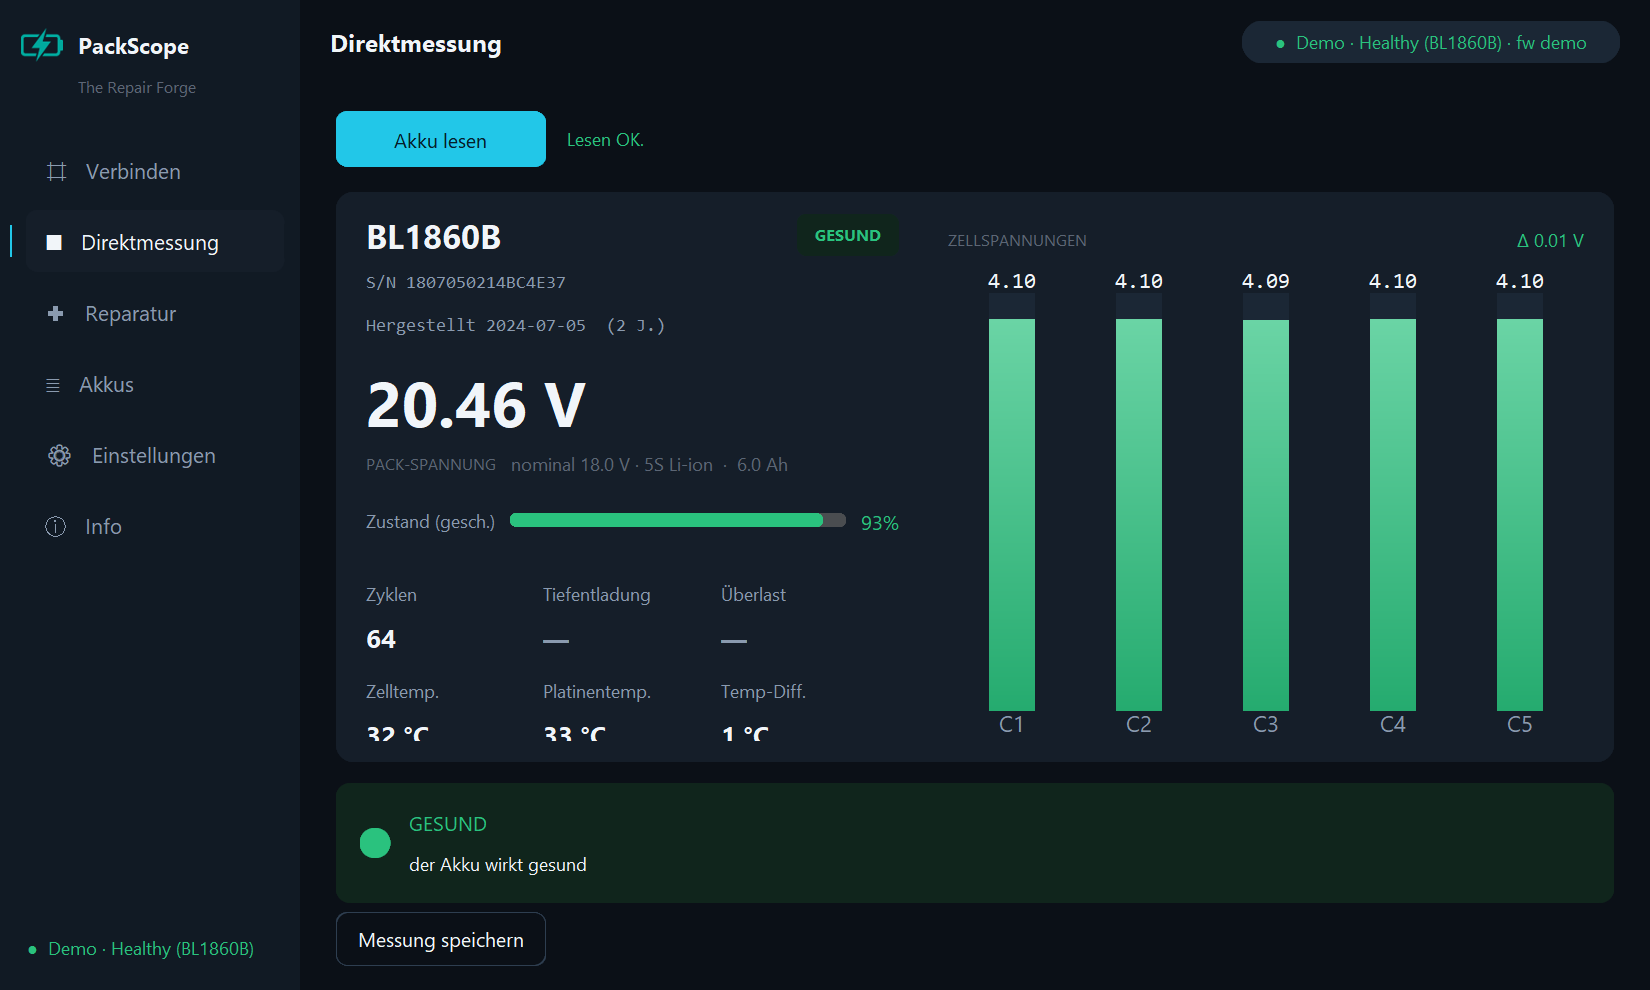
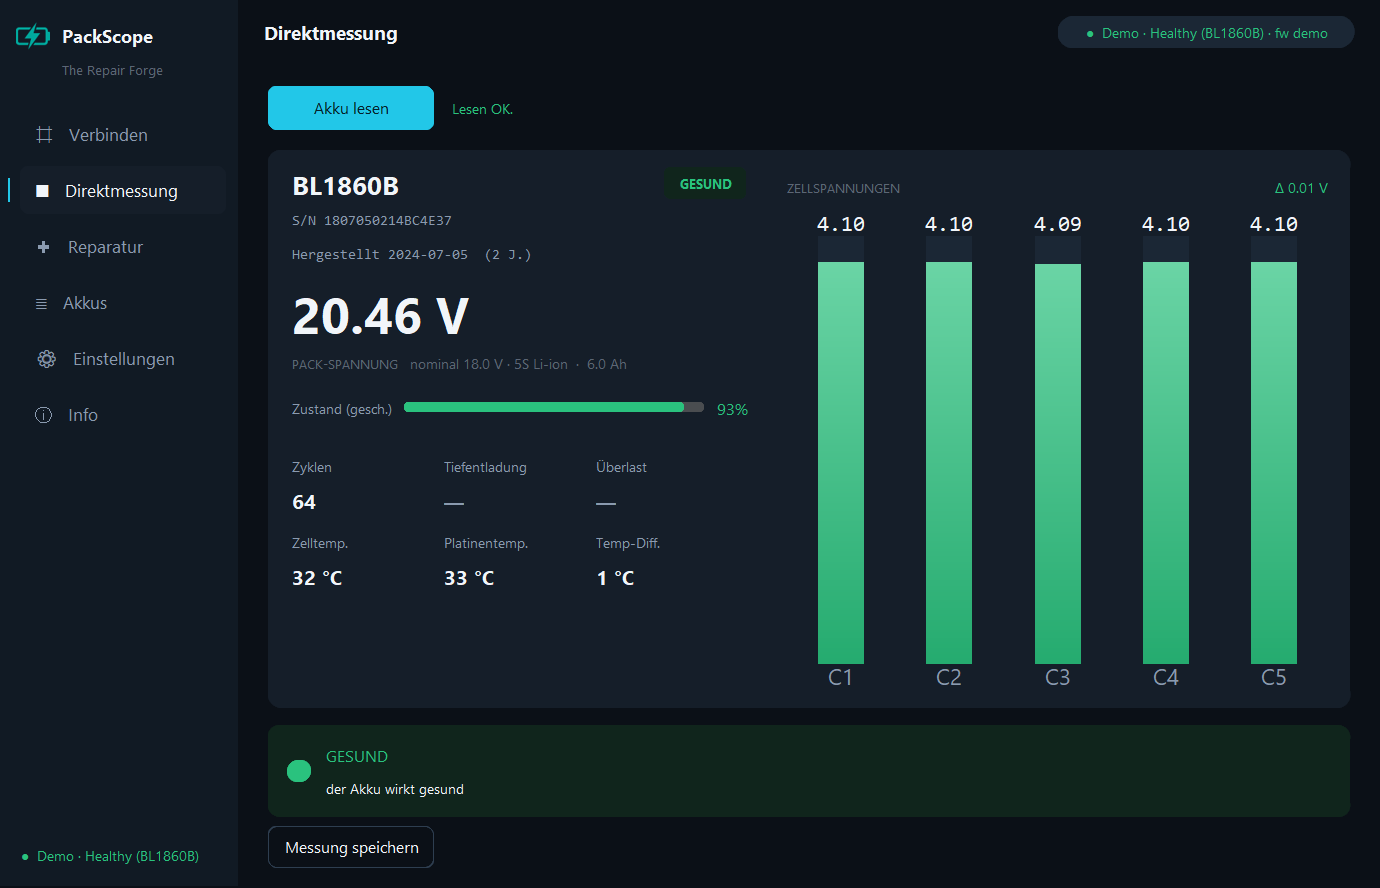
PackScope page: what it does, shown (live read, pack file, health card, repair wizard, languages); screens from 1.0.4

diff --git a/content/packscope.html b/content/packscope.html
@@ -1,42 +1,123 @@
 ---
 title: "PackScope: Makita battery software for your PC"
 title_suffix: true
-description: "PackScope reads Makita LXT batteries through a PocketOBI, keeps a history of every battery, exports CSV and gives the same verdict. Free for personal use."
+description: "PackScope reads Makita LXT batteries through a PocketOBI, keeps a file on every pack, prints a health card for your customer and exports CSV. English, French, German, Spanish. Free for personal use."
 og_image: /assets/img/og-packscope.jpg
 path: "packscope/"
 nav: packscope
-jsonld: "{\"@context\": \"https://schema.org\", \"@type\": \"SoftwareApplication\", \"name\": \"PackScope\", \"applicationCategory\": \"UtilitiesApplication\", \"operatingSystem\": \"Windows, macOS, Linux\", \"url\": \"https://therepairforge.github.io/packscope/\", \"downloadUrl\": \"https://github.com/TheRepairforge/PackScope/releases/latest\", \"license\": \"https://polyformproject.org/licenses/noncommercial/1.0.0/\", \"offers\": {\"@type\": \"Offer\", \"price\": \"0\", \"priceCurrency\": \"EUR\"}, \"author\": {\"@type\": \"Organization\", \"name\": \"The Repair Forge\", \"url\": \"https://therepairforge.github.io/\"}}"
+jsonld: "{\"@context\": \"https://schema.org\", \"@type\": \"SoftwareApplication\", \"name\": \"PackScope\", \"applicationCategory\": \"UtilitiesApplication\", \"operatingSystem\": \"Windows, macOS, Linux\", \"inLanguage\": [\"en\", \"fr\", \"de\", \"es\"], \"url\": \"https://therepairforge.github.io/packscope/\", \"downloadUrl\": \"https://github.com/TheRepairforge/PackScope/releases/latest\", \"license\": \"https://polyformproject.org/licenses/noncommercial/1.0.0/\", \"offers\": {\"@type\": \"Offer\", \"price\": \"0\", \"priceCurrency\": \"EUR\"}, \"author\": {\"@type\": \"Organization\", \"name\": \"The Repair Forge\", \"url\": \"https://therepairforge.github.io/\"}}"
 ---
   <section class="hero">
     <div class="wrap">
       <div>
         <img class="logo-dark" src="/assets/img/packscope-dark.png" alt="PackScope" width="900" height="158" style="height:44px;width:auto;margin-bottom:28px">
         <img class="logo-light" src="/assets/img/packscope-light.png" alt="PackScope" width="900" height="158" style="height:44px;width:auto;margin-bottom:28px">
-        <h1>Read Makita batteries on your computer, through your PocketOBI.</h1>
-        <p class="lead">Every reading saved, a history per pack, and the same verdict and repair wizard on a bigger screen.</p>
-        <div class="actions">
+        <h1>Your PocketOBI on a big screen, with a memory.</h1>
+        <p class="lead">Read a Makita battery on your computer, keep a file on every pack you have ever tested, and hand your customer a health card instead of a shrug.</p>
+        <div class="actions btn-row">
           <a class="btn btn-primary" href="#download">Download <span class="i i-down" aria-hidden="true"></span></a>
+          <a class="btn btn-plain" href="#demo">Try it without a device</a>
         </div>
+        <p class="note" style="margin-top:22px">Free for personal use · Windows, macOS, Linux · English, Français, Deutsch, Español · nothing leaves your computer</p>
       </div>
-      <figure><img class="photo" src="/assets/img/k1-packscope-desk.jpg" alt="A laptop running PackScope on its Live read page, connected by USB to a PocketOBI clipped onto a Makita LXT battery; both show the same HEALTHY verdict" width="1500" height="1000"><figcaption>PackScope reading a battery through PocketOBI.</figcaption></figure>
+      <figure><img class="photo" src="/assets/img/k1-packscope-desk.jpg" alt="A laptop running PackScope on its Live read page, connected by USB to a PocketOBI clipped onto a Makita LXT battery; both show the same HEALTHY verdict" width="1500" height="1000"><figcaption>PackScope reading a battery through PocketOBI. Both screens give the same verdict.</figcaption></figure>
     </div>
   </section>
 
   <section class="section">
+    <div class="wrap">
+      <h2>Every reading, readable</h2>
+      <div class="split wide-text" style="margin-top:36px;align-items:center">
+        <figure><img class="screen soft" src="/assets/img/screens/ps-live.png" alt="PackScope live read: a healthy BL1860B at 20.46 V, health estimate 93%, 64 cycles, temperatures and five cell bars at 4.10 V" width="1380" height="888" loading="lazy"><figcaption>Live read on a demo battery.</figcaption></figure>
+        <div>
+          <ul class="reads">
+            <li><strong>Five cell bars</strong>, the spread between them, pack voltage, capacity and age.</li>
+            <li><strong>A health estimate</strong>, the cycle count, over-discharge and overload counters, both temperatures.</li>
+            <li><strong>One verdict</strong>, the same word the device shows: the decode and the verdict are ported from the PocketOBI firmware, so the two never disagree.</li>
+          </ul>
+          <p class="muted">One click saves the reading into the pack's file.</p>
+        </div>
+      </div>
+    </div>
+  </section>
+
+  <section class="section">
+    <div class="wrap">
+      <h2>A file on every pack</h2>
+      <div class="split" style="margin-top:36px;align-items:center">
+        <div>
+          <p>Each battery is tracked by its serial number. Read it today, read it again in three months: PackScope puts the two side by side.</p>
+          <ul class="reads">
+            <li><strong>Who and where.</strong> An alias, an owner (yours or a customer's), a status from "to diagnose" to "repaired" or "parts", and your own tags.</li>
+            <li><strong>Verdict over time</strong>, one coloured mark per reading, so a pack that is sliding shows it.</li>
+            <li><strong>Trends</strong> of pack voltage, cell spread, temperature spread and cycles, and a side-by-side compare of any two readings.</li>
+            <li><strong>Repair sessions</strong>, with what was tried and whether the unlock held after a charge.</li>
+          </ul>
+        </div>
+        <figure><img class="screen soft" src="/assets/img/screens/ps-history.png" alt="PackScope Batteries page, one pack's file: BL1840B owned by Client Martin, status Repaired, tag false-lock, two readings, one repair, verdict over time going from amber to green, pack voltage trend" width="674" height="670" loading="lazy" style="max-width:560px"><figcaption>A demo pack: false lockout, unlocked, healthy since.</figcaption></figure>
+      </div>
+    </div>
+  </section>
+
+  <section class="section">
+    <div class="wrap">
+      <h2>A health card for your customer</h2>
+      <div class="split wide-text" style="margin-top:36px;align-items:center">
+        <figure><img class="screen soft" src="/assets/img/screens/ps-health-card.png" alt="Battery Health Report for a BL1840B: verdict HEALTHY, capacity, pack voltage, cycles, temperatures, owner, five cell voltages, verdict over time and a repair history line: unlock, held" width="816" height="805" loading="lazy" style="background:#ECEFF2;max-width:640px"><figcaption>The health card of the same pack, as it prints.</figcaption></figure>
+        <div>
+          <p>One button turns a pack's file into a clean one-page report: the verdict in words, the cells, the counters, the verdict history and every repair with its outcome.</p>
+          <p>It opens in your browser; print it, or save it as a PDF. Useful when a pack goes back to its owner, or when you sell one and want to show what you checked.</p>
+          <p class="note">A diagnostic aid, not a warranty: the card says so.</p>
+        </div>
+      </div>
+    </div>
+  </section>
+
+  <section class="section">
+    <div class="wrap">
+      <h2>The repair wizard, step by step</h2>
+      <div class="split" style="margin-top:36px;align-items:center">
+        <div>
+          <p>Read, Classify, Unlock, Confirm. PackScope reads the pack and tells a false lockout from a real fault before anything is written.</p>
+          <div class="checks" style="margin:24px 0 0">
+            <div><h3>Classify</h3><p>Charger lock, latched fault, thermistor and cells, each checked and shown, then a plain-language observation, likely cause and what to check.</p></div>
+            <div><h3>Unlock</h3><p>Through the PocketOBI, the same write the device makes. When it finds a hardware fault it says so, and tells you to fix that first.</p></div>
+            <div><h3>Confirm</h3><p>Re-read, log the session in the pack's file. Charge it afterwards: a pack with a real fault locks again, and its file shows that too.</p></div>
+          </div>
+        </div>
+        <figure><img class="screen soft" src="/assets/img/screens/ps-repair-check.png" alt="PackScope repair wizard, step Classify: charger lock N34, no latched fault, thermistor and cells OK, false lockout, proceed to unlock" width="1380" height="888" loading="lazy"><figcaption>A demo battery: a false lockout, nothing broken.</figcaption></figure>
+      </div>
+    </div>
+  </section>
+
+  <section class="section">
+    <div class="wrap">
+      <h2>In your language</h2>
+      <p class="lead" style="margin-top:12px">English, Français, Deutsch, Español. Pick one in Settings and the whole app follows, verdicts and repair hints included, with the same words as the device.</p>
+      <div class="screen-pair" style="margin-top:32px">
+        <figure><img class="screen soft" src="/assets/img/screens/ps-live.png" alt="PackScope live read in English" width="1380" height="888" loading="lazy"><figcaption>English</figcaption></figure>
+        <figure><img class="screen soft" src="/assets/img/translate/ps-live-fr.png" alt="PackScope live read in French: Lecture directe, SAINE" width="1380" height="888" loading="lazy"><figcaption>Français</figcaption></figure>
+        <figure><img class="screen soft" src="/assets/img/translate/ps-live-de.png" alt="PackScope live read in German: Direktmessung, GESUND" width="1380" height="888" loading="lazy"><figcaption>Deutsch</figcaption></figure>
+        <figure><img class="screen soft" src="/assets/img/translate/ps-live-es.png" alt="PackScope live read in Spanish: Lectura directa, SANA" width="1380" height="888" loading="lazy"><figcaption>Español</figcaption></figure>
+      </div>
+      <p class="muted" style="margin-top:24px">The PocketOBI device itself also speaks Japanese, Korean, Vietnamese and Chinese: see <a href="/pocketobi/#flash">the Asia firmware</a>. Want PackScope in your language, or a better wording? <a href="/translate/">Help translate</a>.</p>
+    </div>
+  </section>
+
+  <section class="section" id="demo">
     <div class="wrap split wide-text">
       <div>
-        <h2>What it adds to the device</h2>
-        <ul class="reads">
-          <li><strong>A history per pack.</strong> Every reading goes into a local file on your computer. Nothing leaves your machine.</li>
-          <li><strong>CSV export</strong> and a JSON report you share only if you choose to.</li>
-          <li><strong>The same verdict and repair wizard</strong>, ported from the firmware so the two always agree.</li>
-          <li><strong>A demo mode</strong> with sample packs, to try it before you own a PocketOBI.</li>
+        <h2>Your data stays yours</h2>
+        <ul class="reads" style="margin-top:24px">
+          <li><strong>Local.</strong> Every reading goes into one file on your computer. No account, no cloud, no telemetry.</li>
+          <li><strong>CSV export</strong> with Makita-compatible columns, or the full set with PocketOBI's extra fields, for your own spreadsheet.</li>
+          <li><strong>A JSON report</strong> you share only if you choose to.</li>
         </ul>
-        <p>It connects to PocketOBI in PC bridge mode over USB. If it can't see the device, the <a href="https://github.com/TheRepairforge/PocketOBI/blob/main/TROUBLESHOOTING.md#bridge-mode-wont-connect-pc-app--packscope">bridge troubleshooting steps</a> cover it.</p>
       </div>
       <div>
-        <figure style="margin-bottom:28px"><img class="screen soft" src="/assets/img/screens/ps-live.png" alt="PackScope live read: a healthy BL1860B with pack voltage, health estimate, cycles, temperatures and five cell bars" width="1320" height="792" loading="lazy"><figcaption>Live read on a demo battery.</figcaption></figure>
-        <figure><img class="screen soft" src="/assets/img/screens/ps-repair-check.png" alt="PackScope repair wizard, step Classify: charger lock N34, no latched fault, thermistor and cells OK, false lockout" width="1320" height="792" loading="lazy"><figcaption>The repair wizard on a demo battery: a false lockout, nothing broken.</figcaption></figure>
+        <h2>Try it before you build</h2>
+        <p style="margin-top:24px">No PocketOBI yet? On the Connect page, pick a demo battery and use the demo bridge: a healthy pack, a false lockout, a dead thermistor. On the Batteries page, load demo data to see a few months of history.</p>
+        <p class="muted">With a device: put PocketOBI in PC bridge mode and plug it in over USB. If PackScope can't see it, the <a href="https://github.com/TheRepairforge/PocketOBI/blob/main/TROUBLESHOOTING.md#bridge-mode-wont-connect-pc-app--packscope">bridge troubleshooting steps</a> cover it.</p>
       </div>
     </div>
   </section>

diff --git a/templates/translate_lang.html b/templates/translate_lang.html
@@ -41,8 +41,8 @@
       <h2>PackScope, the PC app</h2>
       <p>No length or character limits here: accents and full words are welcome.</p>
       <div class="screen-pair" style="margin:24px 0">
-        <figure><img class="screen soft" src="/assets/img/translate/ps-live-{{ l.code }}.png" alt="PackScope live read in {{ l.name }}" width="1650" height="990" loading="lazy"></figure>
-        <figure><img class="screen soft" src="/assets/img/translate/ps-repair-check-{{ l.code }}.png" alt="PackScope repair wizard in {{ l.name }}" width="1650" height="990" loading="lazy"></figure>
+        <figure><img class="screen soft" src="/assets/img/translate/ps-live-{{ l.code }}.png" alt="PackScope live read in {{ l.name }}" width="1380" height="888" loading="lazy"></figure>
+        <figure><img class="screen soft" src="/assets/img/translate/ps-repair-check-{{ l.code }}.png" alt="PackScope repair wizard in {{ l.name }}" width="1380" height="888" loading="lazy"></figure>
       </div>
       <details><summary>All {{ ps|length }} app strings</summary>
 {{ table(ps, false) }}
